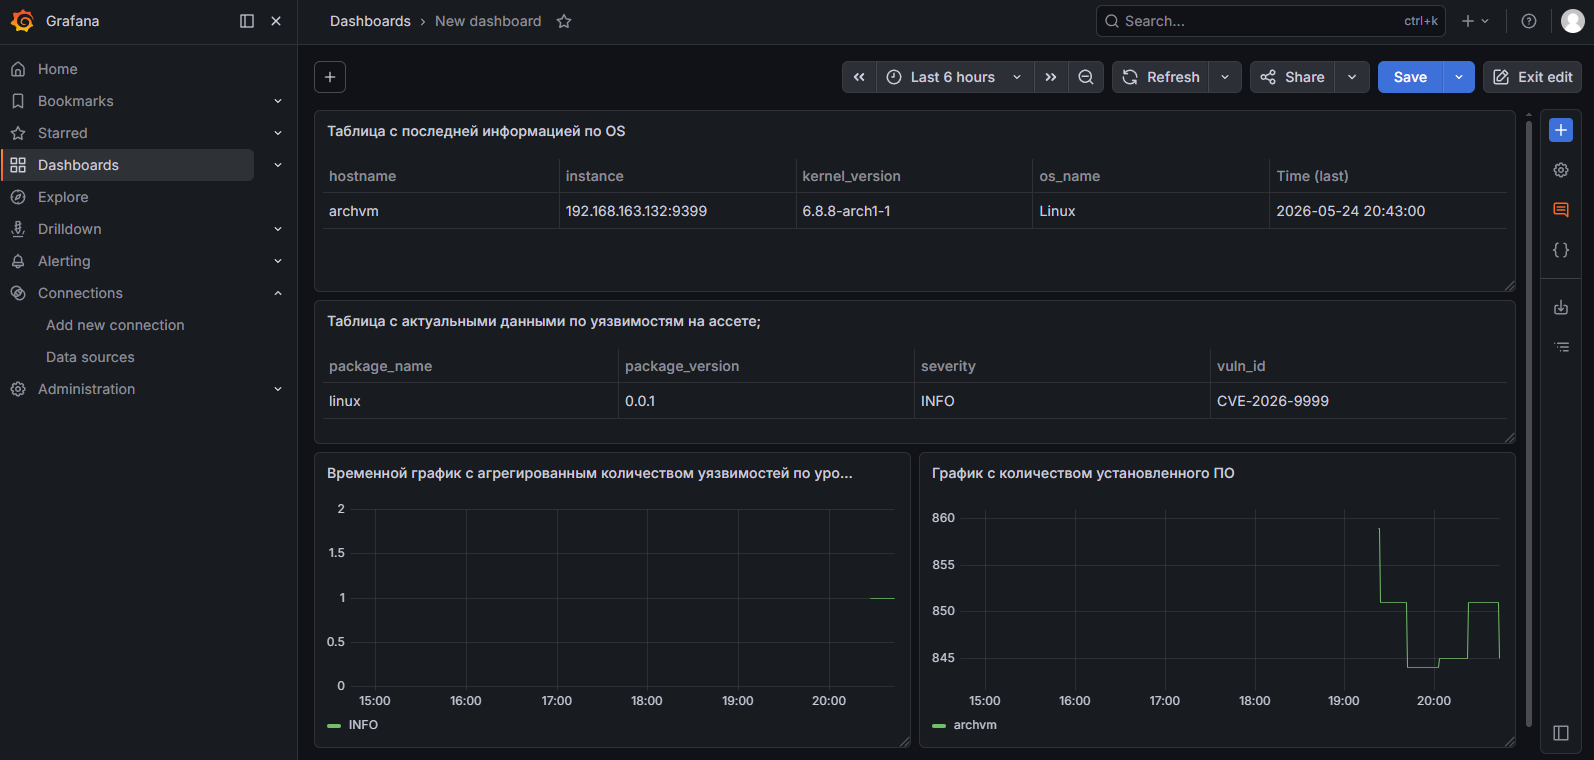
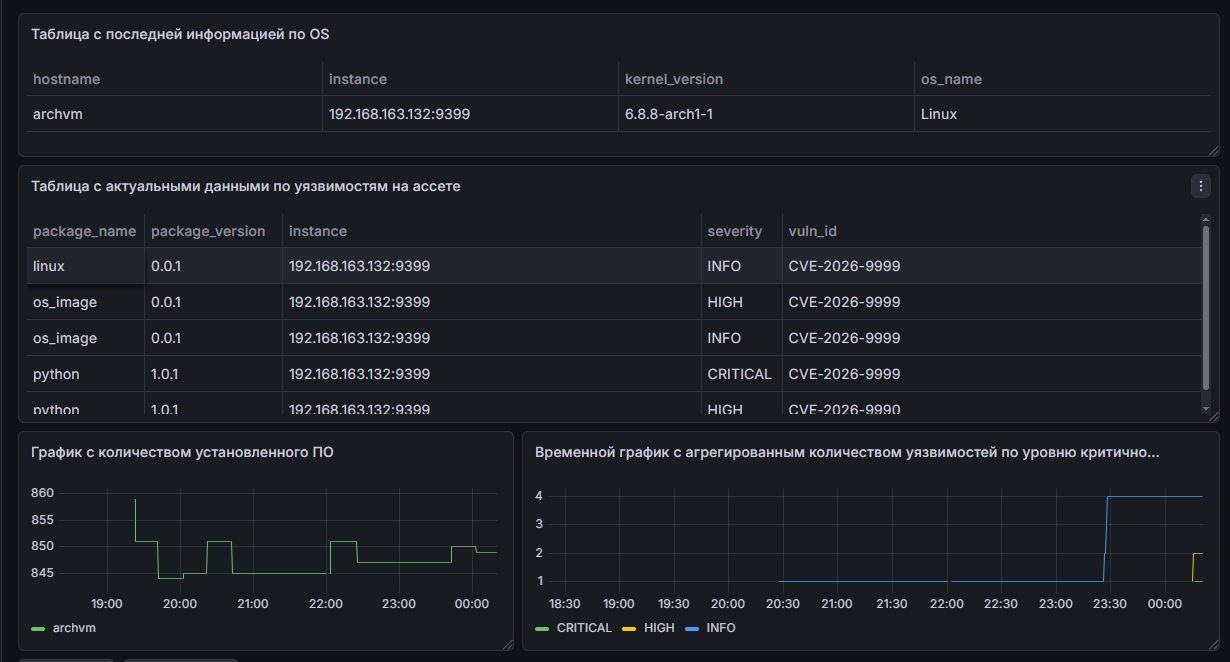
41

diff --git a/task5_consumer.py b/task5_consumer.py
@@ -1,0 +1,70 @@
+import json
+import subprocess
+
+from kafka import KafkaConsumer
+
+
+def psql(query):
+
+    subprocess.run([
+        "docker", "exec", "-i",
+        "postgres",
+        "psql",
+        "-U", "monitor",
+        "-d", "monitoring",
+        "-q",
+        "-c",
+        query
+    ])
+
+sbom_consumer = KafkaConsumer(
+    'sbom-data',
+
+    bootstrap_servers='localhost:9092',
+
+    value_deserializer=lambda m: json.loads(m.decode('utf-8'))
+)
+
+osv_consumer = KafkaConsumer(
+    'vulnerabilities-data',
+
+    bootstrap_servers='localhost:9092',
+
+    value_deserializer=lambda m: json.loads(m.decode('utf-8'))
+)
+
+print("Kafka consumer started")
+
+for message in sbom_consumer:
+
+    data = message.value
+
+    components = data.get("components", [])
+
+    psql("""
+    INSERT INTO scans (host_id, package_count)
+    VALUES (1, %d);
+    """ % len(components))
+
+    for comp in components[:10]:
+
+        name = comp.get("name", "unknown")
+
+        version = comp.get("version", "unknown")
+
+        name = name.replace("'", "''")
+
+        version = version.replace("'", "''")
+
+        psql(f"""
+        INSERT INTO software
+        (scan_id, package_name, version)
+        VALUES
+        (
+            (SELECT MAX(id) FROM scans),
+            '{name}',
+            '{version}'
+        );
+        """)
+
+    break

diff --git a/task5_osv.py b/task5_osv.py
@@ -1,0 +1,23 @@
+import json
+
+from kafka import KafkaProducer
+
+
+producer = KafkaProducer(
+    bootstrap_servers='localhost:9092',
+
+    value_serializer=lambda v: json.dumps(v).encode('utf-8')
+)
+
+with open('/root/task4/osv-result.json', 'r') as f:
+
+    data = json.load(f)
+
+producer.send(
+    'vulnerabilities-data',
+    data
+)
+
+producer.flush()
+
+print('OSV data sent to Kafka')

diff --git a/task5_sbom.py b/task5_sbom.py
@@ -1,0 +1,23 @@
+import json
+
+from kafka import KafkaProducer
+
+
+producer = KafkaProducer(
+    bootstrap_servers='localhost:9092',
+
+    value_serializer=lambda v: json.dumps(v).encode('utf-8')
+)
+
+with open('/root/task4/sbom/sbom.json', 'r') as f:
+
+    data = json.load(f)
+
+producer.send(
+    'sbom-data',
+    data
+)
+
+producer.flush()
+
+print('SBOM sent to Kafka')